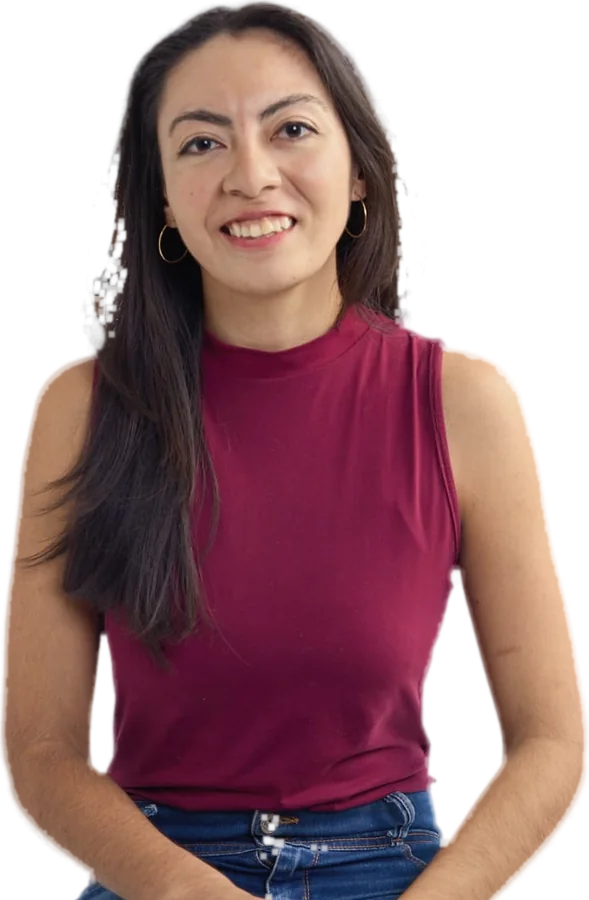
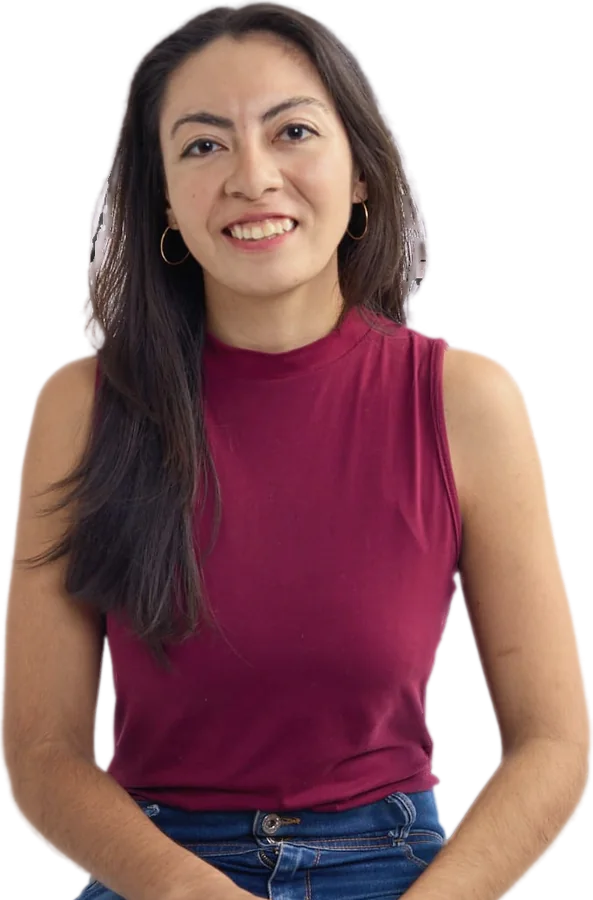
Light hero house with outlined walls and yellow roof (#23)
* Add static sales landing page for Viver de Coliving

Claude-Session: https://claude.ai/code/session_01SfAepcbRf6sY97WC7D79BX

* Serve the landing page as static assets on Cloudflare Workers

Claude-Session: https://claude.ai/code/session_01SfAepcbRf6sY97WC7D79BX

* Use Paola's coliving photo on the landing page

Claude-Session: https://claude.ai/code/session_01SfAepcbRf6sY97WC7D79BX

* Raise contrast and type sizes, redesign hero art and team section on the landing page

Claude-Session: https://claude.ai/code/session_01SfAepcbRf6sY97WC7D79BX

* Fit hero photos inside a larger house shape

Claude-Session: https://claude.ai/code/session_01SfAepcbRf6sY97WC7D79BX

* Turn the collaborative economy section into an ownership-to-access framework

Claude-Session: https://claude.ai/code/session_01SfAepcbRf6sY97WC7D79BX

* Remove audience list from module 2 description

Claude-Session: https://claude.ai/code/session_01SfAepcbRf6sY97WC7D79BX

* Show the collaborative economy as a circular diagram

Claude-Session: https://claude.ai/code/session_01SfAepcbRf6sY97WC7D79BX

* Use background-free photos inside the hero house and set the WhatsApp number

Claude-Session: https://claude.ai/code/session_01SfAepcbRf6sY97WC7D79BX

* Wire Asaas checkout links, add the individual consultancy offer and fix module count

Claude-Session: https://claude.ai/code/session_01SfAepcbRf6sY97WC7D79BX

* Retouch Ivonne's hero photo lighting and skin tone
[…]

diff --git a/landing/index.html b/landing/index.html
@@ -85,13 +85,15 @@ p+p{margin-top:16px}
 .check-list .bola svg{width:14px;height:14px;margin:0}
 .hero .btn{width:100%}
 @media(min-width:560px){.hero .btn{width:auto}}
-.hero-visual{position:relative;width:100%;max-width:640px;margin:0 auto;aspect-ratio:1/1.02;overflow:hidden;border-radius:0 0 20px 20px}
-.casa{position:absolute;left:0;right:0;top:0;bottom:0;background:var(--grafite);clip-path:polygon(50% 0,100% 28%,100% 100%,0 100%,0 28%)}
+.hero-visual{position:relative;width:100%;max-width:640px;margin:0 auto;aspect-ratio:1/1.02;overflow:hidden}
+.casa{position:absolute;inset:0;width:100%;height:100%}
+.casa polygon{fill:var(--creme);stroke:var(--grafite);stroke-width:4;stroke-linejoin:miter;vector-effect:non-scaling-stroke}
+.casa .telha{fill:none;stroke:var(--amarelo);stroke-width:10;stroke-linecap:square;stroke-linejoin:miter;vector-effect:non-scaling-stroke}
 .gente{position:absolute;bottom:0;margin:0;height:86%}
 .gente img{height:100%;width:auto;display:block}
-.gente.g1{left:-7%;z-index:2}
-.gente.g2{right:-3%;z-index:1;height:76%}
-.gente figcaption{position:absolute;bottom:14px;background:var(--amarelo);color:var(--grafite);border-radius:8px;padding:5px 12px;font-size:13px;line-height:17px;z-index:3;white-space:nowrap}
+.gente.g1{left:-4%;z-index:2}
+.gente.g2{right:-1%;z-index:1;height:76%}
+.gente figcaption{position:absolute;bottom:14px;background:var(--grafite);color:#fff;border-radius:8px;padding:5px 12px;font-size:13px;line-height:17px;z-index:3;white-space:nowrap}
 .gente.g1 figcaption{left:18%}
 .gente.g2 figcaption{right:14%}
 .gente figcaption b{display:block;font-size:16px;line-height:21px}
@@ -324,13 +326,13 @@ footer p+p{margin-top:8px}
       <p class="micro">Acesso imediato · Assista no seu ritmo · Garantia de 7 dias</p>
     </div>
     <div class="hero-visual" aria-label="Paola e Ivonne, criadoras do Viver de Coliving">
-      <div class="casa" aria-hidden="true"></div>
+      <svg class="casa" viewBox="0 0 100 100" preserveAspectRatio="none" aria-hidden="true"><polygon points="50,2 99.6,29 99.6,99.6 0.4,99.6 0.4,29"/><polyline class="telha" points="0.4,29 50,2 99.6,29"/></svg>
       <figure class="gente g1">
         <img src="/assets/paola-recorte.webp" alt="Paola, criadora do Viver de Coliving" width="576" height="900" fetchpriority="high">
         <figcaption><b>Paola</b>Gestão</figcaption>
       </figure>
       <figure class="gente g2">
-        <img src="/assets/ivonne-recorte.webp" alt="Ivonne, criadora do Viver de Coliving" width="589" height="900">
+        <img src="/assets/ivonne-recorte.webp" alt="Ivonne, criadora do Viver de Coliving" width="593" height="900">
         <figcaption><b>Ivonne</b>Marketing</figcaption>
       </figure>
     </div>
